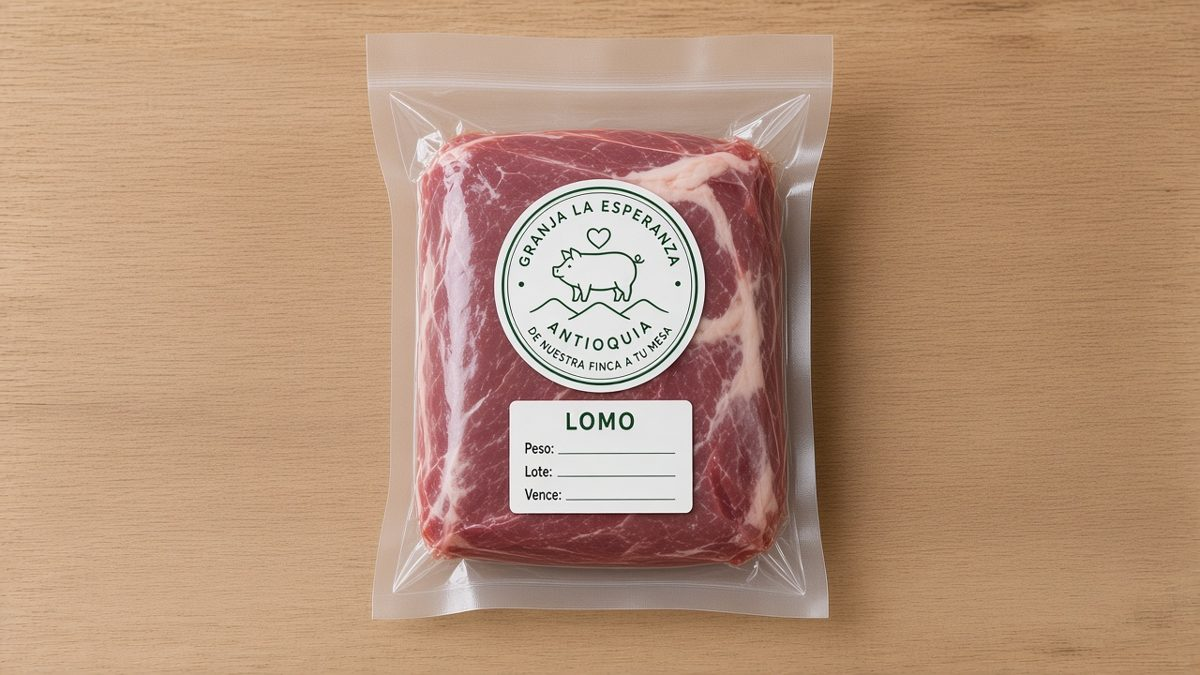
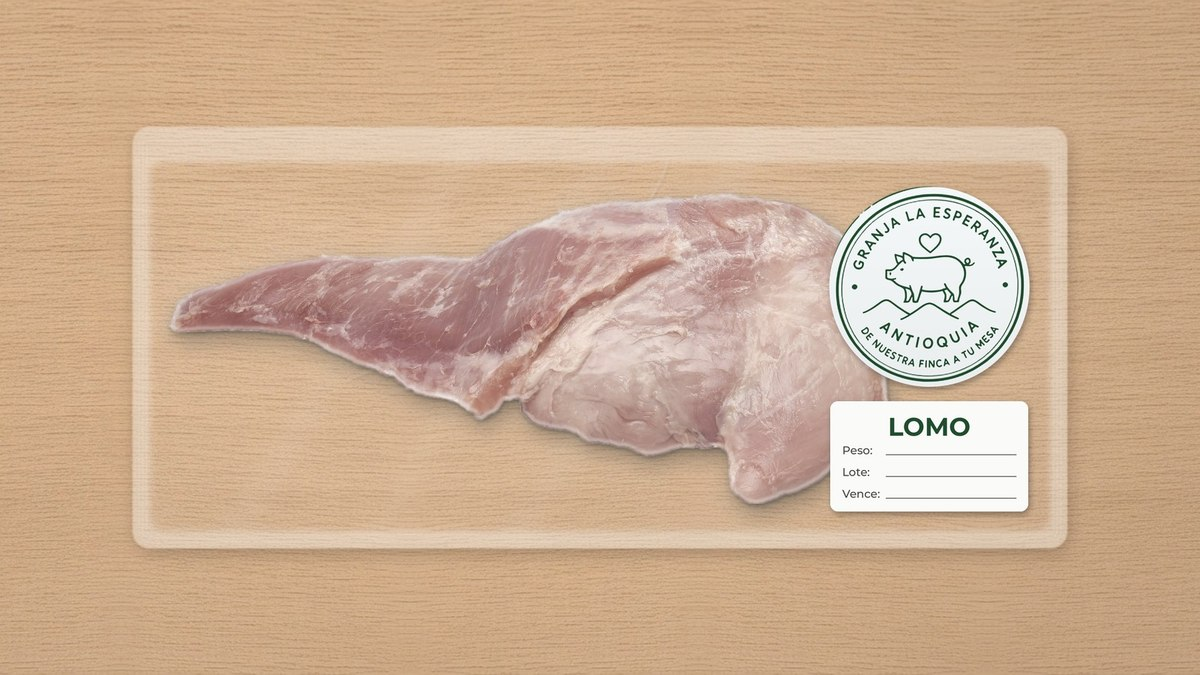
Catálogo de cortes reales empacados (20 cortes) + filtro por categorías; adiós chuleta IA, nuevo lomo

diff --git a/index.html b/index.html
@@ -31,7 +31,8 @@
 <div class="j-steps"><div class="step" data-i="0"><div class="card"><span class="k">01 / 05 · GENÉTICA</span><h3>Todo empieza en la sangre</h3><p>Seleccionamos líneas genéticas de alto desempeño para un cerdo sano, magro y de buen sabor.</p></div></div><div class="step" data-i="1"><div class="card"><span class="k">02 / 05 · ALIMENTO PROPIO</span><h3>Sabemos lo que come</h3><p>Fabricamos nuestro propio alimento en planta. Cada ración, controlada por nosotros.</p></div></div><div class="step" data-i="2"><div class="card"><span class="k">03 / 05 · CRÍA POR BANDAS</span><h3>Cada 15 días, sin falta</h3><p>200 cerdas madres organizadas en bandas quincenales: abastecimiento continuo todo el año.</p></div></div><div class="step" data-i="3"><div class="card"><span class="k">04 / 05 · PLANTA DE PROCESO</span><h3>Del corte al empaque</h3><p>En nuestra propia planta transformamos la carne en cortes y productos cárnicos con controles de calidad.</p></div></div><div class="step" data-i="4"><div class="card"><span class="k">05 / 05 · DISTRIBUCIÓN PROPIA</span><h3>Hasta tu puerta</h3><p>Dos camiones propios llevan el producto fresco directo a tu negocio o tienda.</p></div></div></div></div></div></section>
 <section class="prod" id="productos"><div class="wrap prod-head"><div><span class="eyebrow" style="color:var(--m)">Productos cárnicos</span><h2 class="rv" style="margin-top:1.2rem">Sabor de finca, <em>listo</em> para tu cocina.</h2></div>
 <div class="arrows"><button data-dir="-1" aria-label="Anterior">←</button><button data-dir="1" aria-label="Siguiente">→</button></div></div>
-<div class="rail" id="rail" tabindex="0" aria-label="Catálogo de productos"><article class="item rv"><div class="pic"><picture><source srcset="assets/productos/chorizo.webp" type="image/webp"><img src="assets/productos/chorizo.jpg" alt="Paquete de chorizo antioqueño Granja La Esperanza empacado al vacío" loading="lazy" decoding="async" width="1200" height="675"></picture><span class="no">01</span></div><h3>Chorizo antioqueño</h3><p>Receta de la casa, especias naturales y tripa natural.</p><div class="row"><span class="tag">[Presentación · peso · precio — EDITAR]</span><a class="wa-l" href="#" data-wa="Hola Granja La Esperanza 👋 Quiero pedir Chorizo antioqueño. ¿Me comparten precio y disponibilidad?">Pedir por WhatsApp →</a></div></article><article class="item rv"><div class="pic"><picture><source srcset="assets/productos/chuleta.webp" type="image/webp"><img src="assets/productos/chuleta.jpg" alt="Chuletas de cerdo Granja La Esperanza empacadas al vacío" loading="lazy" decoding="async" width="1200" height="675"></picture><span class="no">02</span></div><h3>Chuleta</h3><p>Corte jugoso para plancha, parrilla o apanada.</p><div class="row"><span class="tag">[Presentación · peso · precio — EDITAR]</span><a class="wa-l" href="#" data-wa="Hola Granja La Esperanza 👋 Quiero pedir Chuleta. ¿Me comparten precio y disponibilidad?">Pedir por WhatsApp →</a></div></article><article class="item rv"><div class="pic"><picture><source srcset="assets/productos/costilla.webp" type="image/webp"><img src="assets/productos/costilla.jpg" alt="Costilla de cerdo Granja La Esperanza empacada al vacío" loading="lazy" decoding="async" width="1200" height="675"></picture><span class="no">03</span></div><h3>Costilla</h3><p>Para asar lento, ahumar o el sancocho del domingo.</p><div class="row"><span class="tag">[Presentación · peso · precio — EDITAR]</span><a class="wa-l" href="#" data-wa="Hola Granja La Esperanza 👋 Quiero pedir Costilla. ¿Me comparten precio y disponibilidad?">Pedir por WhatsApp →</a></div></article><article class="item rv"><div class="pic"><picture><source srcset="assets/productos/tocino.webp" type="image/webp"><img src="assets/productos/tocino.jpg" alt="Tocino de cerdo Granja La Esperanza empacado al vacío" loading="lazy" decoding="async" width="1200" height="675"></picture><span class="no">04</span></div><h3>Tocino</h3><p>El alma del chicharrón y de la bandeja paisa.</p><div class="row"><span class="tag">[Presentación · peso · precio — EDITAR]</span><a class="wa-l" href="#" data-wa="Hola Granja La Esperanza 👋 Quiero pedir Tocino. ¿Me comparten precio y disponibilidad?">Pedir por WhatsApp →</a></div></article><article class="item rv"><div class="pic"><picture><source srcset="assets/productos/lomo.webp" type="image/webp"><img src="assets/productos/lomo.jpg" alt="Lomo de cerdo Granja La Esperanza empacado al vacío" loading="lazy" decoding="async" width="1200" height="675"></picture><span class="no">05</span></div><h3>Lomo</h3><p>Magro y tierno, para ocasiones especiales.</p><div class="row"><span class="tag">[Presentación · peso · precio — EDITAR]</span><a class="wa-l" href="#" data-wa="Hola Granja La Esperanza 👋 Quiero pedir Lomo. ¿Me comparten precio y disponibilidad?">Pedir por WhatsApp →</a></div></article><article class="item rv"><div class="pic"><picture><source srcset="assets/productos/morcilla.webp" type="image/webp"><img src="assets/productos/morcilla.jpg" alt="Morcillas Granja La Esperanza empacadas al vacío" loading="lazy" decoding="async" width="1200" height="675"></picture><span class="no">06</span></div><h3>Morcilla</h3><p>Tradicional, con la receta de siempre.</p><div class="row"><span class="tag">[Presentación · peso · precio — EDITAR]</span><a class="wa-l" href="#" data-wa="Hola Granja La Esperanza 👋 Quiero pedir Morcilla. ¿Me comparten precio y disponibilidad?">Pedir por WhatsApp →</a></div></article></div>
+<div class="wrap"><div class="chips" role="group" aria-label="Filtrar productos por categoría"><button type="button" class="chip" data-cat="all" aria-pressed="true" aria-controls="rail">Todos <span class="ct" aria-hidden="true">24</span></button><button type="button" class="chip" data-cat="finos" aria-pressed="false" aria-controls="rail">Cortes finos <span class="ct" aria-hidden="true">10</span></button><button type="button" class="chip" data-cat="olla" aria-pressed="false" aria-controls="rail">Para la olla y tradición <span class="ct" aria-hidden="true">12</span></button><button type="button" class="chip" data-cat="emb" aria-pressed="false" aria-controls="rail">Embutidos <span class="ct" aria-hidden="true">2</span></button></div><p class="sr-only" id="prod-status" aria-live="polite"></p></div>
+<div class="rail" id="rail" tabindex="0" aria-label="Catálogo de productos"><article class="item rv" data-cat="finos"><div class="pic"><picture><source srcset="assets/productos/solomito.webp" type="image/webp"><img src="assets/productos/solomito.jpg" alt="Solomito de cerdo entero empacado al vacío con sello de Granja La Esperanza" loading="lazy" decoding="async" width="1200" height="675"></picture><span class="no">01</span></div><h3>Solomito</h3><p>El corte más tierno: medallones a la plancha o en salsa de champiñones.</p><div class="row"><span class="tag">[Presentación · peso · precio — EDITAR]</span><a class="wa-l" href="#" data-wa="Hola Granja La Esperanza 👋 Quiero pedir Solomito. ¿Me comparten precio y disponibilidad?">Pedir por WhatsApp →</a></div></article><article class="item rv" data-cat="finos"><div class="pic"><picture><source srcset="assets/productos/lomo.webp" type="image/webp"><img src="assets/productos/lomo.jpg" alt="Lomo de cerdo empacado al vacío con sello de Granja La Esperanza" loading="lazy" decoding="async" width="1200" height="675"></picture><span class="no">02</span></div><h3>Lomo</h3><p>Magro y tierno, para asar entero, en medallones o relleno.</p><div class="row"><span class="tag">[Presentación · peso · precio — EDITAR]</span><a class="wa-l" href="#" data-wa="Hola Granja La Esperanza 👋 Quiero pedir Lomo. ¿Me comparten precio y disponibilidad?">Pedir por WhatsApp →</a></div></article><article class="item rv" data-cat="finos"><div class="pic"><picture><source srcset="assets/productos/lomo-ancho.webp" type="image/webp"><img src="assets/productos/lomo-ancho.jpg" alt="Lomo ancho de cerdo empacado al vacío con sello de Granja La Esperanza" loading="lazy" decoding="async" width="1200" height="675"></picture><span class="no">03</span></div><h3>Lomo ancho</h3><p>Jugoso y veteado, para asar al horno o cortar en bistec.</p><div class="row"><span class="tag">[Presentación · peso · precio — EDITAR]</span><a class="wa-l" href="#" data-wa="Hola Granja La Esperanza 👋 Quiero pedir Lomo ancho. ¿Me comparten precio y disponibilidad?">Pedir por WhatsApp →</a></div></article><article class="item rv" data-cat="finos"><div class="pic"><picture><source srcset="assets/productos/chuleta-con-piel.webp" type="image/webp"><img src="assets/productos/chuleta-con-piel.jpg" alt="Chuletas de cerdo con piel empacadas al vacío con sello de Granja La Esperanza" loading="lazy" decoding="async" width="1200" height="675"></picture><span class="no">04</span></div><h3>Chuleta con piel</h3><p>Para la plancha o la parrilla, con su cuerito bien dorado.</p><div class="row"><span class="tag">[Presentación · peso · precio — EDITAR]</span><a class="wa-l" href="#" data-wa="Hola Granja La Esperanza 👋 Quiero pedir Chuleta con piel. ¿Me comparten precio y disponibilidad?">Pedir por WhatsApp →</a></div></article><article class="item rv" data-cat="finos"><div class="pic"><picture><source srcset="assets/productos/bola.webp" type="image/webp"><img src="assets/productos/bola.jpg" alt="Bola de cerdo empacada al vacío con sello de Granja La Esperanza" loading="lazy" decoding="async" width="1200" height="675"></picture><span class="no">05</span></div><h3>Bola</h3><p>Magra y versátil: bistec, carne molida o asado al horno.</p><div class="row"><span class="tag">[Presentación · peso · precio — EDITAR]</span><a class="wa-l" href="#" data-wa="Hola Granja La Esperanza 👋 Quiero pedir Bola. ¿Me comparten precio y disponibilidad?">Pedir por WhatsApp →</a></div></article><article class="item rv" data-cat="finos"><div class="pic"><picture><source srcset="assets/productos/cadera.webp" type="image/webp"><img src="assets/productos/cadera.jpg" alt="Cadera de cerdo empacada al vacío con sello de Granja La Esperanza" loading="lazy" decoding="async" width="1200" height="675"></picture><span class="no">06</span></div><h3>Cadera</h3><p>Para bistec a caballo, sudados y carne en polvo.</p><div class="row"><span class="tag">[Presentación · peso · precio — EDITAR]</span><a class="wa-l" href="#" data-wa="Hola Granja La Esperanza 👋 Quiero pedir Cadera. ¿Me comparten precio y disponibilidad?">Pedir por WhatsApp →</a></div></article><article class="item rv" data-cat="finos"><div class="pic"><picture><source srcset="assets/productos/muchacho.webp" type="image/webp"><img src="assets/productos/muchacho.jpg" alt="Muchacho de cerdo empacado al vacío con sello de Granja La Esperanza" loading="lazy" decoding="async" width="1200" height="675"></picture><span class="no">07</span></div><h3>Muchacho</h3><p>Para muchacho relleno o sudado, como en casa de la abuela.</p><div class="row"><span class="tag">[Presentación · peso · precio — EDITAR]</span><a class="wa-l" href="#" data-wa="Hola Granja La Esperanza 👋 Quiero pedir Muchacho. ¿Me comparten precio y disponibilidad?">Pedir por WhatsApp →</a></div></article><article class="item rv" data-cat="finos"><div class="pic"><picture><source srcset="assets/productos/pierna.webp" type="image/webp"><img src="assets/productos/pierna.jpg" alt="Pierna de cerdo sin hueso empacada al vacío con sello de Granja La Esperanza" loading="lazy" decoding="async" width="1200" height="675"></picture><span class="no">08</span></div><h3>Pierna</h3><p>Para pernil al horno, asados y lechona casera.</p><div class="row"><span class="tag">[Presentación · peso · precio — EDITAR]</span><a class="wa-l" href="#" data-wa="Hola Granja La Esperanza 👋 Quiero pedir Pierna. ¿Me comparten precio y disponibilidad?">Pedir por WhatsApp →</a></div></article><article class="item rv" data-cat="finos"><div class="pic"><picture><source srcset="assets/productos/paleta.webp" type="image/webp"><img src="assets/productos/paleta.jpg" alt="Paleta de cerdo sin hueso empacada al vacío con sello de Granja La Esperanza" loading="lazy" decoding="async" width="1200" height="675"></picture><span class="no">09</span></div><h3>Paleta</h3><p>Para desmechar, guisar o asar lento en la olla.</p><div class="row"><span class="tag">[Presentación · peso · precio — EDITAR]</span><a class="wa-l" href="#" data-wa="Hola Granja La Esperanza 👋 Quiero pedir Paleta. ¿Me comparten precio y disponibilidad?">Pedir por WhatsApp →</a></div></article><article class="item rv" data-cat="finos"><div class="pic"><picture><source srcset="assets/productos/carne-guisar.webp" type="image/webp"><img src="assets/productos/carne-guisar.jpg" alt="Trozos de carne de cerdo para guisar empacados al vacío con sello de Granja La Esperanza" loading="lazy" decoding="async" width="1200" height="675"></picture><span class="no">10</span></div><h3>Carne para guisar</h3><p>En trozos, lista para sudado, guiso o arroz atollado.</p><div class="row"><span class="tag">[Presentación · peso · precio — EDITAR]</span><a class="wa-l" href="#" data-wa="Hola Granja La Esperanza 👋 Quiero pedir Carne para guisar. ¿Me comparten precio y disponibilidad?">Pedir por WhatsApp →</a></div></article><article class="item rv" data-cat="olla"><div class="pic"><picture><source srcset="assets/productos/costilla.webp" type="image/webp"><img src="assets/productos/costilla.jpg" alt="Costilla de cerdo Granja La Esperanza empacada al vacío" loading="lazy" decoding="async" width="1200" height="675"></picture><span class="no">11</span></div><h3>Costilla</h3><p>Para asar lento, ahumar o el sancocho del domingo.</p><div class="row"><span class="tag">[Presentación · peso · precio — EDITAR]</span><a class="wa-l" href="#" data-wa="Hola Granja La Esperanza 👋 Quiero pedir Costilla. ¿Me comparten precio y disponibilidad?">Pedir por WhatsApp →</a></div></article><article class="item rv" data-cat="olla"><div class="pic"><picture><source srcset="assets/productos/tocino.webp" type="image/webp"><img src="assets/productos/tocino.jpg" alt="Tocino de cerdo Granja La Esperanza empacado al vacío" loading="lazy" decoding="async" width="1200" height="675"></picture><span class="no">12</span></div><h3>Tocino</h3><p>El alma del chicharrón y de la bandeja paisa.</p><div class="row"><span class="tag">[Presentación · peso · precio — EDITAR]</span><a class="wa-l" href="#" data-wa="Hola Granja La Esperanza 👋 Quiero pedir Tocino. ¿Me comparten precio y disponibilidad?">Pedir por WhatsApp →</a></div></article><article class="item rv" data-cat="olla"><div class="pic"><picture><source srcset="assets/productos/pecho.webp" type="image/webp"><img src="assets/productos/pecho.jpg" alt="Pecho de cerdo empacado al vacío con sello de Granja La Esperanza" loading="lazy" decoding="async" width="1200" height="675"></picture><span class="no">13</span></div><h3>Pecho</h3><p>Para chicharrón, frito o asado al carbón.</p><div class="row"><span class="tag">[Presentación · peso · precio — EDITAR]</span><a class="wa-l" href="#" data-wa="Hola Granja La Esperanza 👋 Quiero pedir Pecho. ¿Me comparten precio y disponibilidad?">Pedir por WhatsApp →</a></div></article><article class="item rv" data-cat="olla"><div class="pic"><picture><source srcset="assets/productos/hueso-carnudo.webp" type="image/webp"><img src="assets/productos/hueso-carnudo.jpg" alt="Hueso carnudo de cerdo empacado al vacío con sello de Granja La Esperanza" loading="lazy" decoding="async" width="1200" height="675"></picture><span class="no">14</span></div><h3>Hueso carnudo</h3><p>Le da sustancia al sancocho, los fríjoles y las sopas.</p><div class="row"><span class="tag">[Presentación · peso · precio — EDITAR]</span><a class="wa-l" href="#" data-wa="Hola Granja La Esperanza 👋 Quiero pedir Hueso carnudo. ¿Me comparten precio y disponibilidad?">Pedir por WhatsApp →</a></div></article><article class="item rv" data-cat="olla"><div class="pic"><picture><source srcset="assets/productos/hueso-pierna.webp" type="image/webp"><img src="assets/productos/hueso-pierna.jpg" alt="Hueso de pierna de cerdo empacado al vacío con sello de Granja La Esperanza" loading="lazy" decoding="async" width="1200" height="675"></picture><span class="no">15</span></div><h3>Hueso de pierna</h3><p>Para caldos y sopas con todo el sabor.</p><div class="row"><span class="tag">[Presentación · peso · precio — EDITAR]</span><a class="wa-l" href="#" data-wa="Hola Granja La Esperanza 👋 Quiero pedir Hueso de pierna. ¿Me comparten precio y disponibilidad?">Pedir por WhatsApp →</a></div></article><article class="item rv" data-cat="olla"><div class="pic"><picture><source srcset="assets/productos/brazo.webp" type="image/webp"><img src="assets/productos/brazo.jpg" alt="Brazo de cerdo empacado al vacío con sello de Granja La Esperanza" loading="lazy" decoding="async" width="1200" height="675"></picture><span class="no">16</span></div><h3>Brazo</h3><p>Para sudar en olla a presión o hornear con papa y yuca.</p><div class="row"><span class="tag">[Presentación · peso · precio — EDITAR]</span><a class="wa-l" href="#" data-wa="Hola Granja La Esperanza 👋 Quiero pedir Brazo. ¿Me comparten precio y disponibilidad?">Pedir por WhatsApp →</a></div></article><article class="item rv" data-cat="olla"><div class="pic"><picture><source srcset="assets/productos/paleta-con-hueso.webp" type="image/webp"><img src="assets/productos/paleta-con-hueso.jpg" alt="Paleta de cerdo con hueso empacada al vacío con sello de Granja La Esperanza" loading="lazy" decoding="async" width="1200" height="675"></picture><span class="no">17</span></div><h3>Paleta con hueso</h3><p>Para asar al horno o sudar despacio, con más sabor.</p><div class="row"><span class="tag">[Presentación · peso · precio — EDITAR]</span><a class="wa-l" href="#" data-wa="Hola Granja La Esperanza 👋 Quiero pedir Paleta con hueso. ¿Me comparten precio y disponibilidad?">Pedir por WhatsApp →</a></div></article><article class="item rv" data-cat="olla"><div class="pic"><picture><source srcset="assets/productos/lomo-con-piel.webp" type="image/webp"><img src="assets/productos/lomo-con-piel.jpg" alt="Lomo de cerdo con piel empacado al vacío con sello de Granja La Esperanza" loading="lazy" decoding="async" width="1200" height="675"></picture><span class="no">18</span></div><h3>Lomo con piel</h3><p>Para lechona y asados con el cuero bien tostado.</p><div class="row"><span class="tag">[Presentación · peso · precio — EDITAR]</span><a class="wa-l" href="#" data-wa="Hola Granja La Esperanza 👋 Quiero pedir Lomo con piel. ¿Me comparten precio y disponibilidad?">Pedir por WhatsApp →</a></div></article><article class="item rv" data-cat="olla"><div class="pic"><picture><source srcset="assets/productos/patas.webp" type="image/webp"><img src="assets/productos/patas.jpg" alt="Patas de cerdo empacadas al vacío con sello de Granja La Esperanza" loading="lazy" decoding="async" width="1200" height="675"></picture><span class="no">19</span></div><h3>Patas</h3><p>Para sancocho, mondongo y fríjoles.</p><div class="row"><span class="tag">[Presentación · peso · precio — EDITAR]</span><a class="wa-l" href="#" data-wa="Hola Granja La Esperanza 👋 Quiero pedir Patas. ¿Me comparten precio y disponibilidad?">Pedir por WhatsApp →</a></div></article><article class="item rv" data-cat="olla"><div class="pic"><picture><source srcset="assets/productos/oreja.webp" type="image/webp"><img src="assets/productos/oreja.jpg" alt="Oreja de cerdo empacada al vacío con sello de Granja La Esperanza" loading="lazy" decoding="async" width="1200" height="675"></picture><span class="no">20</span></div><h3>Oreja</h3><p>Para fríjoles, chicharrón crocante o en encurtido.</p><div class="row"><span class="tag">[Presentación · peso · precio — EDITAR]</span><a class="wa-l" href="#" data-wa="Hola Granja La Esperanza 👋 Quiero pedir Oreja. ¿Me comparten precio y disponibilidad?">Pedir por WhatsApp →</a></div></article><article class="item rv" data-cat="olla"><div class="pic"><picture><source srcset="assets/productos/careta.webp" type="image/webp"><img src="assets/productos/careta.jpg" alt="Careta de cerdo empacada al vacío con sello de Granja La Esperanza" loading="lazy" decoding="async" width="1200" height="675"></picture><span class="no">21</span></div><h3>Careta</h3><p>Para chicharrón y queso de cabeza.</p><div class="row"><span class="tag">[Presentación · peso · precio — EDITAR]</span><a class="wa-l" href="#" data-wa="Hola Granja La Esperanza 👋 Quiero pedir Careta. ¿Me comparten precio y disponibilidad?">Pedir por WhatsApp →</a></div></article><article class="item rv" data-cat="olla"><div class="pic"><picture><source srcset="assets/productos/cuero.webp" type="image/webp"><img src="assets/productos/cuero.jpg" alt="Cuero de cerdo enrollado empacado al vacío con sello de Granja La Esperanza" loading="lazy" decoding="async" width="1200" height="675"></picture><span class="no">22</span></div><h3>Cuero</h3><p>Para chicharrón carnudo, fríjoles antioqueños y gelatina casera.</p><div class="row"><span class="tag">[Presentación · peso · precio — EDITAR]</span><a class="wa-l" href="#" data-wa="Hola Granja La Esperanza 👋 Quiero pedir Cuero. ¿Me comparten precio y disponibilidad?">Pedir por WhatsApp →</a></div></article><article class="item rv" data-cat="emb"><div class="pic"><picture><source srcset="assets/productos/chorizo.webp" type="image/webp"><img src="assets/productos/chorizo.jpg" alt="Paquete de chorizo antioqueño Granja La Esperanza empacado al vacío" loading="lazy" decoding="async" width="1200" height="675"></picture><span class="no">23</span></div><h3>Chorizo antioqueño</h3><p>Receta de la casa, especias naturales y tripa natural.</p><div class="row"><span class="tag">[Presentación · peso · precio — EDITAR]</span><a class="wa-l" href="#" data-wa="Hola Granja La Esperanza 👋 Quiero pedir Chorizo antioqueño. ¿Me comparten precio y disponibilidad?">Pedir por WhatsApp →</a></div></article><article class="item rv" data-cat="emb"><div class="pic"><picture><source srcset="assets/productos/morcilla.webp" type="image/webp"><img src="assets/productos/morcilla.jpg" alt="Morcillas Granja La Esperanza empacadas al vacío" loading="lazy" decoding="async" width="1200" height="675"></picture><span class="no">24</span></div><h3>Morcilla</h3><p>Tradicional, con la receta de siempre.</p><div class="row"><span class="tag">[Presentación · peso · precio — EDITAR]</span><a class="wa-l" href="#" data-wa="Hola Granja La Esperanza 👋 Quiero pedir Morcilla. ¿Me comparten precio y disponibilidad?">Pedir por WhatsApp →</a></div></article></div>
 </section>
 <section class="b2b" id="mayoristas"><div class="wrap g"><div><span class="eyebrow" style="color:var(--m)">Venta en canal · B2B</span><h2 class="rv">Cerdo en canal para <em>tu</em> negocio.</h2>
 <p class="rv d1" style="max-width:44ch">Abastecemos expendios, famas y restaurantes con cerdo en canal de calidad constante. Con bandas cada 15 días, tu pedido es programable y continuo.</p>

diff --git a/assistant.js b/assistant.js
@@ -11,7 +11,7 @@ const INTENTS=[
  [/(pago|pagar|tarjeta|transferencia|efectivo|cr[eé]dito)/,'Las formas de pago se las confirma un asesor. ¿Le tomo los datos?'],
  [/(precio|cu[aá]nto (vale|cuesta)|valor|tarifa)/,'Los precios dependen del producto y la cantidad; un asesor le pasa la lista actualizada. ¿Quiere que le contactemos?'],
  [/(canal|expendio|fama|restaurante|mayor|negocio|al por mayor)/,'Sí: cerca del 30% de lo que producimos se vende en canal a expendios, famas y restaurantes. Criamos por bandas cada 15 días, así que el suministro es continuo y programable. ¿Le tomo los datos para una cotización?'],
- [/(chorizo|chuleta|costilla|tocino|lomo|morcilla|producto|carnes?|cortes?)/,'Hacemos chorizo, chuleta, costilla, tocino, lomo y morcilla en nuestra propia planta de proceso. Presentaciones y precios se los confirma un asesor. ¿Le tomo los datos?'],
+ [/(chorizo|chuleta|costilla|tocino|lomo|morcilla|solomito|bola|cadera|muchacho|pierna|paleta|guisar|pecho|hueso|brazo|patas?|oreja|careta|cuero|producto|carnes?|cortes?)/,'Tenemos cortes finos (solomito, lomo, lomo ancho, chuleta con piel, bola, cadera, muchacho, pierna, paleta y carne para guisar), cortes para la olla y tradición (costilla, tocino, pecho, hueso carnudo, hueso de pierna, brazo, paleta con hueso, lomo con piel, patas, oreja, careta y cuero) y embutidos (chorizo y morcilla), todo de nuestra propia planta de proceso. Presentaciones y precios se los confirma un asesor. ¿Le tomo los datos?'],
  [/(come|alimento|concentrado|comida|dieta)/,'Fabricamos nuestro propio alimento en planta, así sabemos exactamente qué come cada animal.'],
  [/(fr[ií]o|refrigera|temperatura|cadena)/,'Procesamos en planta propia y repartimos en camiones propios, sin intermediarios. Los detalles de refrigeración se los confirma un asesor.'],
  [/(bienestar|sanidad|sano|ica|invima|registro|bioseguridad|calidad|trazab)/,'Trabajamos con bioseguridad y trazabilidad desde la granja. Los números de registro ICA e INVIMA se los confirma un asesor.'],

diff --git a/script.js b/script.js
@@ -37,6 +37,12 @@ $$('.step').forEach(s=>sio.observe(s));setStep(0);
 const rail=$('#rail');$$('.arrows button').forEach(b=>b.onclick=()=>rail.scrollBy({left:b.dataset.dir*rail.clientWidth*.8,behavior:'smooth'}));
 let dn=false,sx,sl;rail.addEventListener('pointerdown',e=>{if(e.pointerType!=='mouse')return;dn=true;sx=e.clientX;sl=rail.scrollLeft;rail.style.scrollSnapType='none'});
 addEventListener('pointerup',()=>{if(dn){dn=false;rail.style.scrollSnapType=''}});rail.addEventListener('pointermove',e=>{if(dn)rail.scrollLeft=sl-(e.clientX-sx)});
+// product category filter
+(()=>{const chips=$$('.chip[data-cat]'),items=$$('#rail .item'),st=$('#prod-status');if(!chips.length)return;
+const apply=c=>{let n=0;items.forEach(it=>{const on=c==='all'||it.dataset.cat===c;it.hidden=!on;if(on){n++;it.classList.add('in');const no=$('.no',it);if(no)no.textContent=String(n).padStart(2,'0')}});
+chips.forEach(b=>b.setAttribute('aria-pressed',b.dataset.cat===c));rail.scrollTo({left:0});const lbl=chips.find(b=>b.dataset.cat===c);
+if(st)st.textContent=`${n} productos: ${lbl.childNodes[0].textContent.trim()}`};
+chips.forEach(b=>b.addEventListener('click',()=>apply(b.dataset.cat)));})();
 // form -> mailto
 $('#cotiza').addEventListener('submit',e=>{e.preventDefault();const f=new FormData(e.target);
 location.href=`mailto:${EMAIL}?subject=${encodeURIComponent('Cotización cerdo en canal - '+f.get('Negocio'))}&body=${encodeURIComponent([...f].map(([k,v])=>k+': '+v).join('\n'))}`});

diff --git a/styles.css b/styles.css
@@ -233,3 +233,13 @@ dialog#lb::backdrop{background:#0b1a10ee;backdrop-filter:blur(4px)}
 .item .pic{aspect-ratio:16/10;background:#c9a77c}.item .pic picture{display:block;height:100%}
 .item .pic img{object-fit:cover;object-position:50% 50%}
 .item{flex-basis:min(82vw,440px)}
+/* product category filter */
+.sr-only{position:absolute!important;width:1px;height:1px;padding:0;margin:-1px;overflow:hidden;clip:rect(0,0,0,0);white-space:nowrap;border:0}
+.chips{display:flex;flex-wrap:wrap;gap:.6rem;margin:-1.2rem 0 2.2rem}
+.chip{display:inline-flex;align-items:center;gap:.55rem;min-height:44px;padding:.55rem 1.1rem;border-radius:999px;border:1px solid #ffffff50;background:none;color:#fff;font:600 .85rem var(--sans);letter-spacing:.04em;cursor:pointer;transition:background .25s,color .25s,border-color .25s}
+.chip .ct{font:500 .72rem var(--sans);min-width:1.7em;padding:.1rem .45rem;border-radius:999px;background:#ffffff1f;text-align:center}
+.chip:hover{border-color:var(--m);color:var(--m)}
+.chip[aria-pressed="true"]{background:var(--m);border-color:var(--m);color:var(--v2)}
+.chip[aria-pressed="true"] .ct{background:#163a2226}
+.item[hidden]{display:none}
+@media(max-width:600px){.chips{flex-wrap:nowrap;overflow-x:auto;scrollbar-width:none;margin-right:-5vw;padding-right:5vw;-webkit-overflow-scrolling:touch}.chips::-webkit-scrollbar{display:none}.chip{flex:0 0 auto;font-size:.8rem;padding:.5rem .95rem}}
